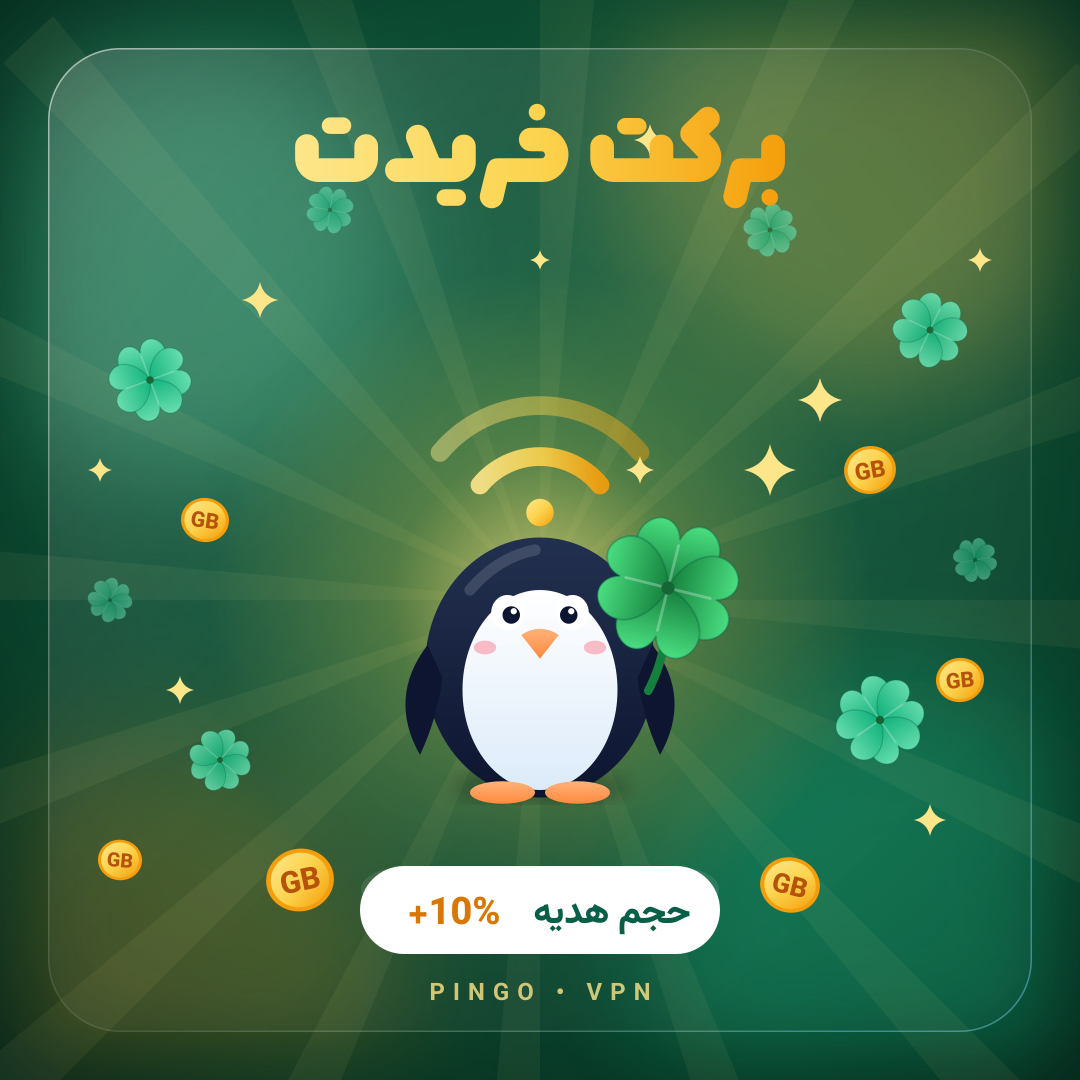
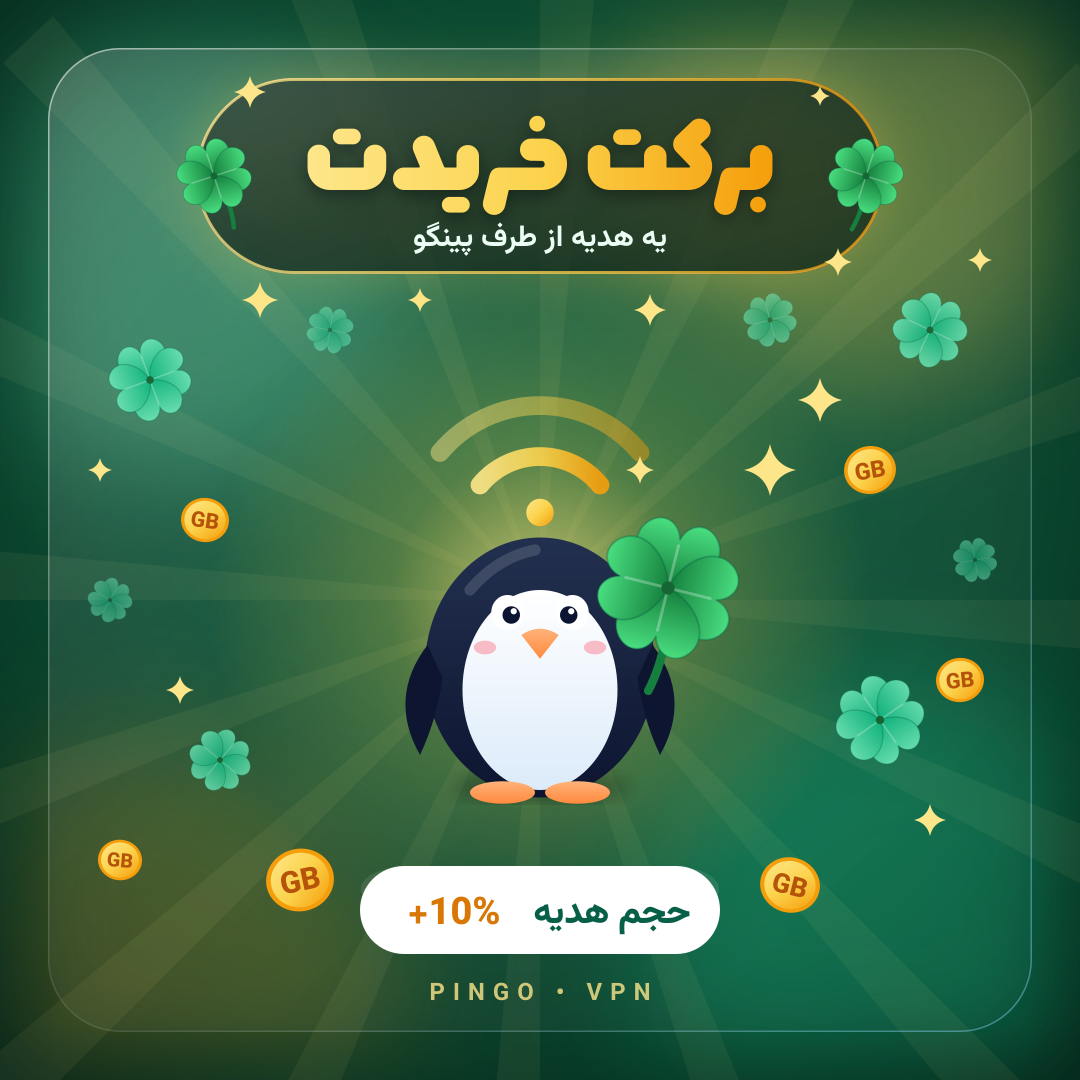
EZ-XUI 5.37.1: receipt reactions, early receipts, readable barakat title
- 👀 on a customer's receipt while it is checked, ❤ once approved.
- A receipt sent before tapping card-to-card counts for the open invoice.
- FAQ titles keep their first letters; support without a link offers a ticket.
- The barakat picture's title sits on a dark glass plate.

Changed region(s): [[0.1528, 0.0611, 0.8556, 0.3361]]

diff --git a/xui_chain.py b/xui_chain.py
@@ -47,7 +47,7 @@ import zlib
 import urllib.request
 from http.server import BaseHTTPRequestHandler, ThreadingHTTPServer
 
-VERSION = "5.37.0"
+VERSION = "5.37.1"
 NAME = "EZ-XUI"
 CONF_DIR = os.environ.get("XUI_CHAIN_DIR", "/etc/xui-chain")
 XUI_DB = os.path.join(os.environ.get("XUI_DB_FOLDER", "/etc/x-ui"), "x-ui.db")
@@ -10244,7 +10244,13 @@ class Shop:
                       self.card_rows(o, net) if o else [[("🏠 منوی اصلی", "m")]])
             return True
         if msg.get("photo") or msg.get("document"):
-            self.show(net, chat, "اول از منو سفارشت رو ثبت کن، بعد رسید رو بفرست 🙏", [[("🏠 منوی اصلی", "m")]])
+            o = next((o for o in reversed(self.d["orders"]) if o["uid"] == uid and o["status"] in ("new", "receipt")
+                      and time.time() - o["at"] < 48 * 3600), None)
+            if o:
+                with self.lock:
+                    o["method"] = o.get("method") or "card"
+                return self.got_receipt(net, chat, uid, o["id"], msg)
+            self.show(net, chat, "اول از منو سفارشت رو ثبت کن، بعد رسید رو بفرست 🙏", [[("🛒 خرید سرویس", "buy"), ("🏠 منوی اصلی", "m")]])
             return True
         if w and text and not text.startswith("/"):
             self.wait.pop(cid, None)
@@ -10282,6 +10288,8 @@ class Shop:
             fuid = msg["document"].get("file_unique_id", "")
         dup = next((x for x in self.d["orders"] if fuid and x.get("receipt_uid") == fuid and x["id"] != o["id"]), None)
         o["receipt_uid"] = fuid
+        o["receipt_mid"] = msg.get("message_id")
+        self.react(net, chat, o["receipt_mid"], "👀")  # «we are looking at it»
         code_err = self.take_code(o)
         with self.lock:
             o["status"], o["receipt"], o["receipt_at"] = "review", media[2], int(time.time())
@@ -10987,6 +10995,17 @@ class Shop:
         self.barakat_send(net, chat, self.barakat_text("مشتری", 10, "نمونه") + "\n\n<i>(پیشنمایش؛ چیزی اضافه نشد · برکت: %s%s)</i>" % (
             state, " · %s٪" % fa_num(pct) if pct else ""), [[("📦 سرویسهای من", "svc"), ("🏠 منوی اصلی", "m")]])
 
+    def react(self, net, chat, mid, emoji):
+        """A reaction on the customer's own message (a receipt): 👀 while it is checked, ❤ once approved;
+        "" takes it away. Telegram only; never in the way of anything else."""
+        if net != "tg" or not mid:
+            return
+        try:
+            self.bot.call(net, "setMessageReaction", {"chat_id": chat, "message_id": mid,
+                                                      "reaction": [{"type": "emoji", "emoji": emoji}] if emoji else []})
+        except (ValueError, OSError):
+            pass
+
     REJECT = ("مبلغ واریزی درست نیست", "رسید خوانا نیست", "این رسید قبلاً استفاده شده", "واریزی به حساب نرسیده", "بدون دلیل")
 
     def review(self, oid, approve, who="", reason=""):
@@ -10998,6 +11017,7 @@ class Shop:
             if o["status"] != "review" or o.get("method") == "wallet":
                 return "این سفارش قبلاً %s" % self.STATUS.get(o["status"], o["status"])
             o["status"], o["reviewed_by"] = ("approving" if approve else "rejected"), who
+        self.react(o["net"], o["chat"], o.get("receipt_mid"), "❤" if approve else "")
         if approve:
             ok = self.fulfil(o, by="کارت به کارت")
             res = "✅ تأیید شد" if ok else "⚠ تأیید شد ولی انجام نشد (پول به کیف پول برگشت)"
@@ -11235,11 +11255,14 @@ class Shop:
             faq = str(self.app.cfg.get("shop_faq") or "").strip()
             blocks = [b.strip() for b in re.split(r"\n\s*\n", faq) if b.strip()]
             text = "❓ <b>سوالهای پرتکرار</b>\n\n" + "\n\n".join(
-                "<b>%s</b>\n%s" % (self.esc(b.split("\n", 1)[0].lstrip("سؤس:؟ ").strip()), self.esc(b.split("\n", 1)[1].strip()) if "\n" in b else "")
+                "<b>%s</b>\n%s" % (self.esc(re.sub(r"^\s*(?:سؤال|سوال|س)\s*[:：]\s*", "", b.split("\n", 1)[0]).strip()), self.esc(b.split("\n", 1)[1].strip()) if "\n" in b else "")
                 for b in blocks[:15])
             return self.show(net, chat, text[:4000], [[("🎫 جوابم رو پیدا نکردم", "tk:new")], self.back()], mid)
         if head == "help":
-            return self.show(net, chat, "💬 پشتیبانی: %s" % self.esc(support_link(self.app.cfg)), [self.back()], mid)
+            sup = support_link(self.app.cfg)
+            if not sup:
+                return self.show(net, chat, "💬 <b>پشتیبانی</b>\nسؤالت رو با یه تیکت بفرست؛ همینجا جواب میگیری.", [[("🎫 تیکت تازه", "tk:new")], self.back()], mid)
+            return self.show(net, chat, "💬 پشتیبانی: %s" % self.esc(sup), [self.back()], mid)
         if head == "guide":
             g = self.app.cfg.get("shop_help") or ("📚 <b>راهنمای اتصال</b>\n\n1⃣ اپ <b>Happ</b> (اندروید و آیفون) یا v2rayNG رو نصب کن.\n"
                                                   "2⃣ از «📦 سرویسهای من» لینک اشتراک رو کپی کن.\n3⃣ توی اپ «+» بزن و «از کلیپبورد» رو انتخاب کن.\n"

diff --git a/brand/make_barakat.py b/brand/make_barakat.py
@@ -46,11 +46,11 @@ body += glass(48, 48, 984, 984, 72)
 body += '<circle cx="540" cy="600" r="330" fill="url(#halo)"/>'
 # falling clovers, coins and sparkles (abundance)
 for x, y, s, r, op in [(150, 380, .55, -20, .9), (930, 330, .5, 25, .85), (220, 760, .42, 40, .8), (880, 720, .6, -35, .9),
-                       (330, 210, .32, 10, .55), (770, 230, .36, -15, .6), (110, 600, .3, 30, .5), (975, 560, .3, -10, .5)]:
+                       (330, 330, .32, 10, .55), (770, 320, .36, -15, .6), (110, 600, .3, 30, .5), (975, 560, .3, -10, .5)]:
     body += clover(x, y, s, r, fill="url(#leaf2)", stem=False, op=op)
 for x, y, r, rot in [(300, 880, 34, -12), (790, 885, 30, 14), (205, 520, 24, 8), (870, 470, 26, -10), (120, 860, 22, 5), (960, 680, 24, -6)]:
     body += coin(x, y, r, rot)
-for x, y, r in [(260, 300, 18), (820, 400, 22), (180, 690, 14), (930, 820, 16), (420, 160, 12), (650, 140, 16), (540, 260, 10), (980, 260, 12), (100, 470, 12)]:
+for x, y, r in [(260, 300, 18), (820, 400, 22), (180, 690, 14), (930, 820, 16), (420, 300, 12), (650, 310, 16), (980, 260, 12), (100, 470, 12)]:
     body += sparkle(x, y, r)
 # the mascot, its ping turned gold, holding a big clover
 p = penguin(540, 640, 1.25).replace("url(#iceh)", "url(#goldh)").replace('fill="url(#ice)"', 'fill="url(#gold)"')
@@ -58,7 +58,16 @@ body += p
 body += clover(668, 588, .95, 14)
 body += sparkle(770, 470, 26) + sparkle(640, 470, 14)
 # words
-body += f'<text x="540" y="182" font-family="{DISPLAY}" font-size="118" fill="url(#goldh)" text-anchor="middle">برکت خریدت</text>'
+# title on a dark glass plate, so it reads on any part of the rays
+body += f'<rect x="196" y="78" width="688" height="196" rx="98" fill="{GOLD}" opacity=".30" filter="url(#blur30)"/>'
+body += f'<rect x="196" y="78" width="688" height="196" rx="98" fill="#021A11" opacity=".74"/>'
+body += glass(196, 78, 688, 196, 98)
+body += f'<rect x="197.5" y="79.5" width="685" height="193" rx="96.5" fill="none" stroke="url(#goldh)" stroke-opacity=".75" stroke-width="3"/>'
+body += f'<text x="540" y="196" font-family="{DISPLAY}" font-size="112" fill="#000" opacity=".35" text-anchor="middle" filter="url(#soft)">برکت خریدت</text>'
+body += f'<text x="540" y="190" font-family="{DISPLAY}" font-size="112" fill="url(#goldh)" text-anchor="middle">برکت خریدت</text>'
+body += f'<text x="540" y="246" font-family="{BODY}" font-weight="700" font-size="30" fill="#ECFDF5" text-anchor="middle">یه هدیه از طرف پینگو</text>'
+body += clover(214, 176, .5, -18) + clover(866, 176, .5, 18)
+body += sparkle(250, 92, 16) + sparkle(838, 262, 14) + sparkle(820, 96, 10)
 body += pill(360, 866, 360, 88, "", fill="#FFFFFF", size=34)
 body += f'<text x="612" y="923" font-family="{BODY}" font-weight="800" font-size="36" fill="#065F46" text-anchor="middle">حجم هدیه</text>'
 body += f'<text x="454" y="924" font-family="{BODY}" font-weight="800" font-size="38" fill="#D97706" text-anchor="middle" direction="ltr">+10%</text>' 

diff --git a/test_xui_chain.py b/test_xui_chain.py
@@ -2505,6 +2505,32 @@ class ShopTests(BotBase):
             xc.save_config(cfg)
             self.app.reload()
 
+    def test_receipt_before_card_tap_reactions_and_faq(self):
+        self.tap(1701, "bp:p30")  # the invoice is open, «کارت به کارت» never tapped
+        o = self.shop.d["orders"][-1]
+        BotAPI.other = []
+        BotAPI.sent = []
+        self.bot.handle("tg", {"chat": {"id": 1701, "type": "private"}, "from": {"id": 1701}, "message_id": 55, "photo": [{"file_id": "F9"}]})
+        self.assertEqual(o["status"], "review")  # taken as that invoice's receipt
+        self.tap(100, "ok:%d" % o["id"], chat=100)
+        reacts = [b["reaction"] for m, b in BotAPI.other if m == "setMessageReaction" and b["message_id"] == 55]
+        self.assertEqual(reacts, [[{"type": "emoji", "emoji": "👀"}], [{"type": "emoji", "emoji": "❤"}]])
+        self.assertEqual(o["status"], "done")
+        self.assertEqual(o["receipt_mid"], 55)
+        cfg = xc.load_config()
+        cfg.update(shop_faq="سوال: چند دستگاه؟\nتا ۲ دستگاه.\n\nسؤال: واقعاً؟\nآره.")
+        xc.save_config(cfg)
+        self.app.reload()
+        try:
+            faq = self.tap(1701, "faq")
+            self.assertIn("<b>چند دستگاه؟</b>", faq)
+            self.assertIn("<b>واقعاً؟</b>", faq)
+            self.assertNotIn("وال", faq.replace("سوالهای", ""))
+        finally:
+            cfg.update(shop_faq="")
+            xc.save_config(cfg)
+            self.app.reload()
+
     def test_qr_cards_first_and_later(self):
         d = xc.conf_path("brand")
         os.makedirs(d, exist_ok=True)

diff --git a/README.md b/README.md
@@ -57,6 +57,7 @@
   - **دعوت:** لینک اختصاصی هر مشتری؛ از اولین خرید دوستش درصدی به کیف پولش میاد.
   - **عضویت اجباری کانال**، پیام خوشآمد و راهنمای دلخواه، پیشوند اسم کاربرها و inboundهای سرویس جدید از تنظیمات فروش.
   - **تب فروش:** فروش امروز و ۳۰ روز، رسیدهای منتظر (با عکس رسید)، سفارشها (برگشت به کیف پول، تلاش دوباره)، مشتریها (جستجو، شارژ یا کم کردن کیف پول). کیف پولها و سفارشها توی بکاپ هستن.
+- **واکنش روی رسید (5.37.1):** ربات روی رسید مشتری 👀 میذاره (در حال بررسی) و بعد از تأیید ❤. عکس رسیدی که قبل از «کارت به کارت» فرستاده بشه، رسید همون فاکتور باز حساب میشه. عنوان سوالهای پرتکرار درست نشون داده میشه و پشتیبانی بدون لینک، دکمهی تیکت میده. عنوان تصویر برکت روی شیشهی تیرهست تا خوانا باشه.
 - **🍀 برکت خرید (5.37.0):** کمی بعد از هر خرید و تمدید (پیشفرض ۱۰ دقیقه)، درصدی از حجم همون اشتراک (مثلاً ۱۰٪) هدیه اضافه میشه و یه پیام با عکس `brand/barakat.png` برای مشتری میره. اول حالت تست (فقط آیدیهای تست یا خود مالک)، بعد «برای همه». تنظیمات: فروشگاه ← برکت خرید؛ پیشنمایش پیام با `/barakat` در ربات. حجم نامحدود هدیه نمیگیره و هر سفارش فقط یک بار.
 - **چند دامنه روی یه پورت (5.36.2):** EZ برای هر دامنه گواهی خودش رو از `/root/cert/<دامنه>/` نشون میده (SNI)، پس مثلاً پنل با `panel.example.com` و ساب با `sub.example.com` روی همون پورت باز میشن. تنظیم `admin_host` آدرسیه که `ez-xui info` برای پنل نشون میده.
 - **برگشت خرید، دعوت کاملتر، سوالهای پرتکرار، درخواست لغو، یادآوری رسید (5.36):** درصدی از هر خرید کارت به کارت به کیف پول خریدار برمیگرده (`shop_cashback`). پاداش دعوت میتونه از هر خرید دوست باشه نه فقط اولی، و صفحهی دعوت آمار «دعوت کردی / خرید کردن / درآمد» و دکمهی کپی لینک داره. «❓ سوالهای پرتکرار» از متنی که توی پنل مینویسی. «🙅 درخواست لغو» روی هر سرویس یه تیکت برای پشتیبانی میسازه. رسید کارت به کارتی که ۱۵ دقیقه بیجواب مونده (و بعد هر ساعت) دوباره به مدیرها یادآوری میشه.
